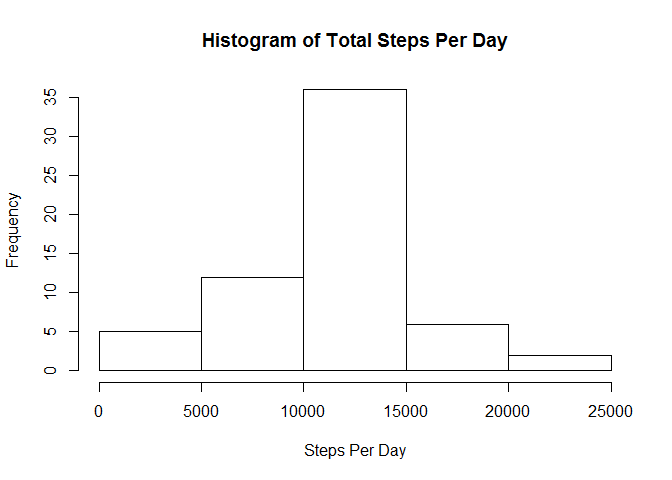
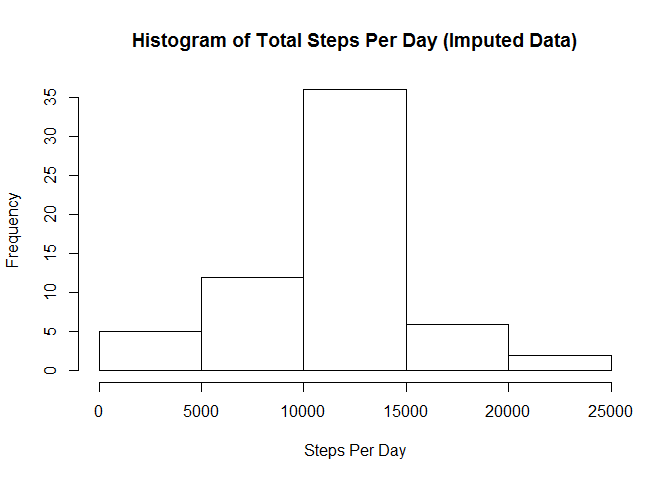
Indicated imputed data is used in 2nd histogram.

Changed region(s): [[0.1875, 0.0625, 0.875, 0.125]]

diff --git a/PA1_template.html b/PA1_template.html
@@ -108,9 +108,9 @@ for (i in inds) {
 ##
 totalStepsByDay &lt;- aggregate(steps ~ date, imputed, &quot;sum&quot;)
 hist(totalStepsByDay$steps, 
-     main = &quot;Histogram of Total Steps Per Day&quot;,
+     main = &quot;Histogram of Total Steps Per Day (Imputed Data)&quot;,
      xlab = &quot;Steps Per Day&quot;)</code></pre>
[2 lines of base64/hex data omitted]
 <pre class="r"><code>imputedMean &lt;- mean(totalStepsByDay$steps)
 imputedMedian &lt;- median(totalStepsByDay$steps)</code></pre>
 <p>The mean is 10766.19 steps per day.<br />The imputed mean is 10766.19 steps per day.<br />The median is 10765 steps per day.<br />The imputed median is 10766.19 steps per day.</p>

diff --git a/PA1_template.md b/PA1_template.md
@@ -74,7 +74,7 @@ for (i in inds) {
 ##
 totalStepsByDay <- aggregate(steps ~ date, imputed, "sum")
 hist(totalStepsByDay$steps, 
-     main = "Histogram of Total Steps Per Day",
+     main = "Histogram of Total Steps Per Day (Imputed Data)",
      xlab = "Steps Per Day")
 ```
 
